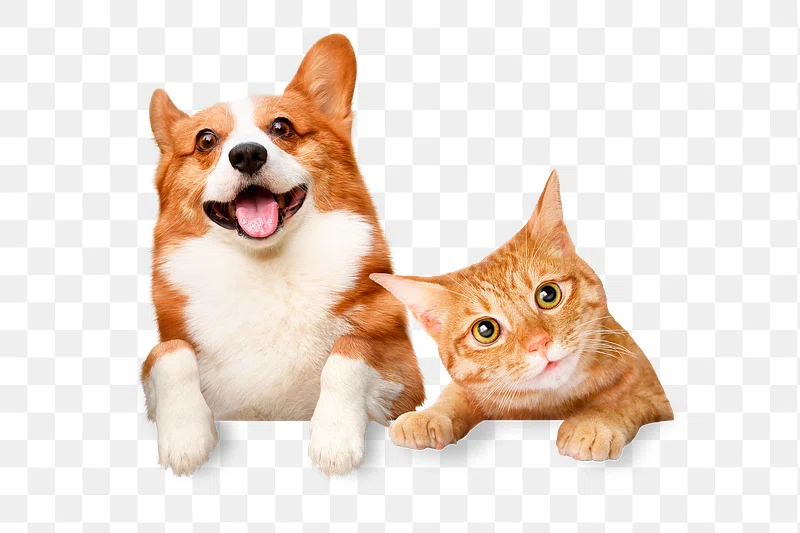
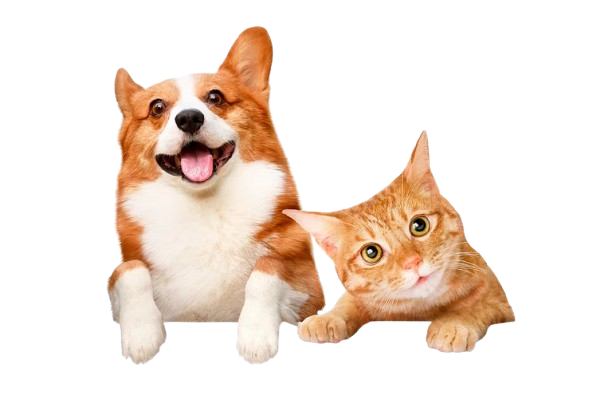
add - imagem no header

diff --git a/index.html b/index.html
@@ -8,7 +8,10 @@
 <body>
 
     <header>
-        <h1> PROGRAMA DE ADOÇÃO </h1>
+        <div class="flex">
+            <img src="assets/pets.png" id="img_pets">
+            <h1> PROGRAMA DE ADOÇÃO </h1>
+        </div>
     </header>
 
     <div id="form">

diff --git a/style.css b/style.css
@@ -25,3 +25,13 @@ header {
     width: 400px;
     text-align: center;
 }
+
+#img_pets {
+    width: 200px;
+    height: 200px;
+}
+
+.flex {
+    display: flex;
+    align-items: center;
+}
